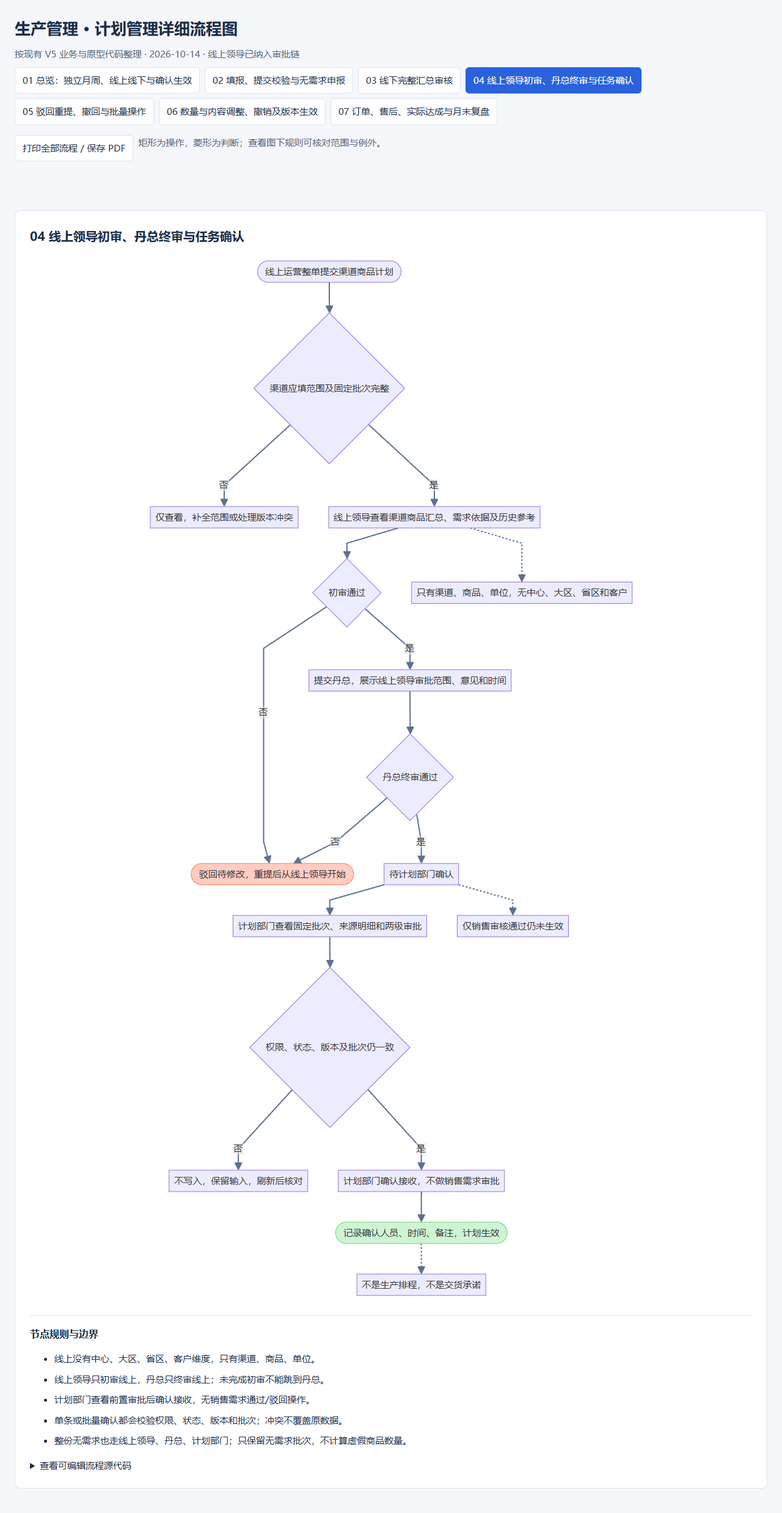
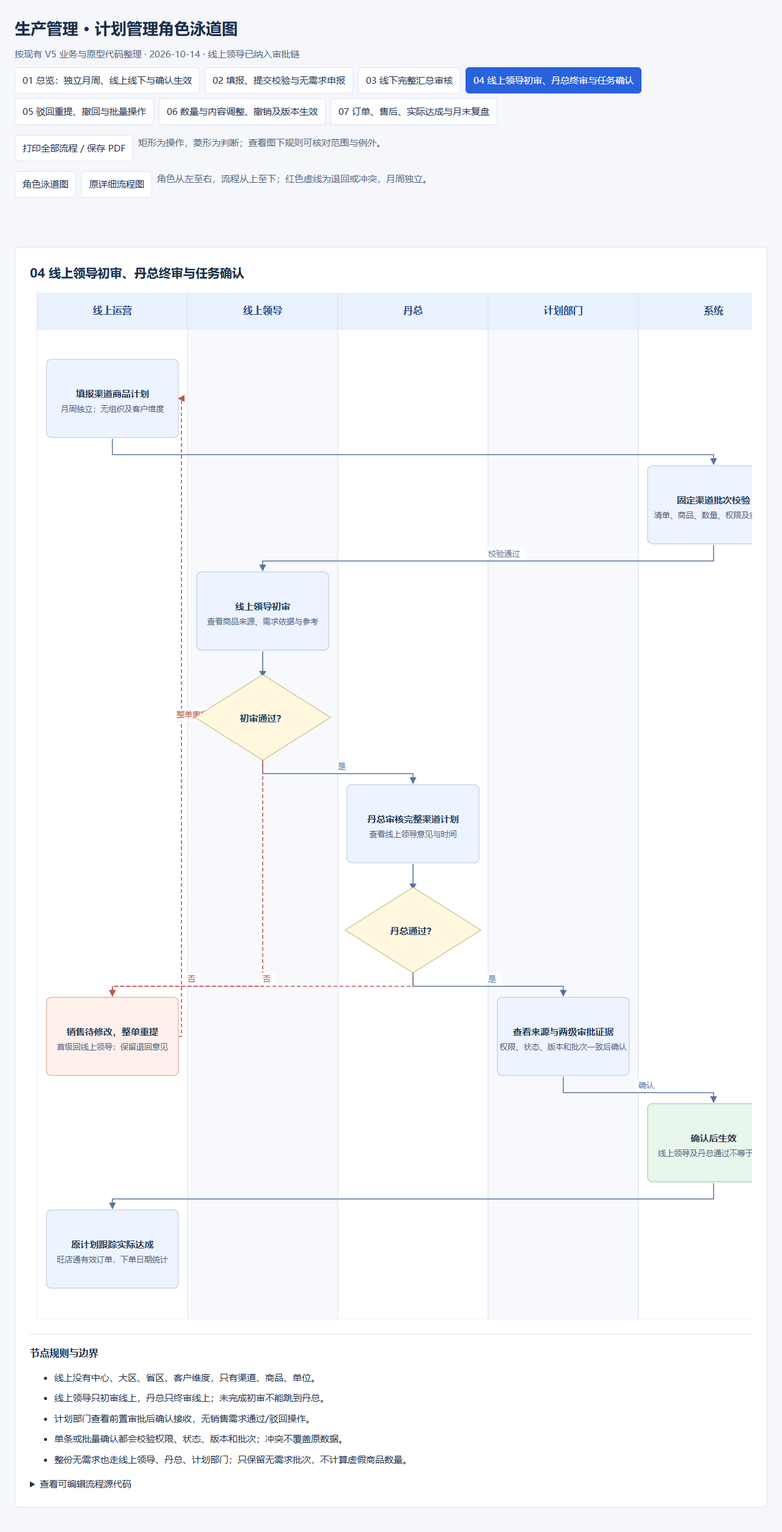
Auto sync 2026-10-14 09:13:38

diff --git a/09-设计与原型/销售计划管理/17-计划管理详细流程图.html b/09-设计与原型/销售计划管理/17-计划管理详细流程图.html
@@ -2,10 +2,11 @@
 <html lang="zh-CN"><head><meta charset="utf-8"><meta name="viewport" content="width=device-width,initial-scale=1"><title>脱骨侠 · 计划管理详细流程图</title>
 <style>
 :root{color-scheme:light;--ink:#1b2d4b;--line:#dbe4f2;--blue:#2962dc;--muted:#526582}*{box-sizing:border-box}body{margin:0;background:#f5f7fb;color:var(--ink);font:15px/1.7 "Microsoft YaHei",sans-serif}header,main{max-width:1280px;margin:auto;padding:24px}h1{margin:0;font-size:26px}header p{margin:8px 0;color:var(--muted)}nav{display:flex;flex-wrap:wrap;gap:8px}button{font:inherit;padding:8px 12px;border:1px solid var(--line);border-radius:6px;background:white;color:var(--ink);cursor:pointer}button[aria-selected=true]{background:var(--blue);color:white;border-color:var(--blue)}button:focus-visible,a:focus-visible{outline:3px solid #83abff;outline-offset:3px}.sheet{background:white;border:1px solid var(--line);border-radius:8px;padding:24px;margin:16px 0}.sheet h2{font-size:20px;margin:0 0 16px}.drawing{overflow:auto;min-height:120px}.drawing svg{display:block;margin:auto;max-width:none!important}.error{color:#a32c28}li{margin:8px 0}.rules{border-top:1px solid var(--line);margin-top:24px;padding-top:16px}.rules h3{margin:0;font-size:16px}.toolbar{display:flex;gap:8px;flex-wrap:wrap;margin:16px 0}.muted{color:var(--muted)}[hidden]{display:none!important}@media(max-width:600px){header,main{padding:16px}.sheet{padding:16px}h1{font-size:22px}}@media print{nav,.toolbar{display:none!important}header,main{max-width:none;padding:8px}body{background:white}.sheet{display:block!important;page-break-before:always;border:0}.drawing{overflow:visible}.drawing svg{max-width:100%!important;max-height:800px;width:auto!important;height:auto!important}.sheet:first-of-type{page-break-before:auto}}
+.swimlane-drawing{overflow:auto;width:100%;margin:16px 0}.swimlane-drawing svg{display:block;font-family:"Microsoft YaHei",sans-serif}@media print{@page{size:A3 landscape;margin:10mm}.swimlane-drawing{overflow:visible}.swimlane-drawing svg{width:100%;height:auto;max-height:820px}}
 </style></head><body><header><h1>生产管理 · 计划管理详细流程图</h1><p>按现有 V5 业务与原型代码整理 · 2026-10-14 · 线上领导已纳入审批链</p><nav role="tablist" aria-label="流程章节"><button id="flowTab0" role="tab" aria-controls="flowPanel0" aria-selected="true" data-chapter="0">01 总览：独立月周、线上线下与确认生效</button><button id="flowTab1" role="tab" aria-controls="flowPanel1" aria-selected="false" data-chapter="1">02 填报、提交校验与无需求申报</button><button id="flowTab2" role="tab" aria-controls="flowPanel2" aria-selected="false" data-chapter="2">03 线下完整汇总审核</button><button id="flowTab3" role="tab" aria-controls="flowPanel3" aria-selected="false" data-chapter="3">04 线上领导初审、丹总终审与任务确认</button><button id="flowTab4" role="tab" aria-controls="flowPanel4" aria-selected="false" data-chapter="4">05 驳回重提、撤回与批量操作</button><button id="flowTab5" role="tab" aria-controls="flowPanel5" aria-selected="false" data-chapter="5">06 数量与内容调整、撤销及版本生效</button><button id="flowTab6" role="tab" aria-controls="flowPanel6" aria-selected="false" data-chapter="6">07 订单、售后、实际达成与月末复盘</button></nav><div class="toolbar"><button id="printFlows">打印全部流程 / 保存 PDF</button><span class="muted">矩形为操作，菱形为判断；查看图下规则可核对范围与例外。</span></div></header><main><section class="sheet" role="tabpanel" id="flowPanel0" aria-labelledby="flowTab0" ><h2>01 总览：独立月周、线上线下与确认生效</h2><div class="drawing" id="flowDrawing0" aria-label="01 总览：独立月周、线上线下与确认生效">正在生成流程图…</div><div class="rules"><h3>节点规则与边界</h3><ul><li>月计划与周计划独立填报、审核、确认，不分解、不相加。</li><li>计划数量包含已有订单，是周期预计销售总量。</li><li>生产管理当前为第一阶段：需求计划，不直接生成生产工单。</li></ul></div><details><summary>查看可编辑流程源代码</summary><pre></pre></details></section><section class="sheet" role="tabpanel" id="flowPanel1" aria-labelledby="flowTab1" hidden><h2>02 填报、提交校验与无需求申报</h2><div class="drawing" id="flowDrawing1" aria-label="02 填报、提交校验与无需求申报">正在生成流程图…</div><div class="rules"><h3>节点规则与边界</h3><ul><li>月度完整自然月；周度周一至周日。</li><li>一个销售固定属于一个中心和大区，可负责多个省区；客户只有一位负责人。</li><li>客户明细层不能单独提交，必须提交本人整份省区计划；线上按整份渠道提交。</li><li>整份无需求必须没有商品明细；无需求原因与提交批次留痕，不造零数量商品。</li><li>清单未发布、窗口未开放、归属错误、商品停用、重复或范围不完整时保留输入并阻断提交。</li></ul></div><details><summary>查看可编辑流程源代码</summary><pre></pre></details></section><section class="sheet" role="tabpanel" id="flowPanel2" aria-labelledby="flowTab2" hidden><h2>03 线下完整汇总审核</h2><div class="drawing" id="flowDrawing2" aria-label="03 线下完整汇总审核">正在生成流程图…</div><div class="rules"><h3>节点规则与边界</h3><ul><li>三个中心：休食中心、餐饮中心、大客中心。</li><li>大区列表按省区；中心列表按大区；严总列表按中心。详情可逐级下钻客户，也可独立查看商品汇总及数量来源。</li><li>完整性按应填清单、负责人固定批次、内容/数量/版本、下级审核节点验证，不按当前搜索结果拼接审批对象。</li><li>本级已通过不表示已生效，上级完成后仍待计划部门确认。</li></ul></div><details><summary>查看可编辑流程源代码</summary><pre></pre></details></section><section class="sheet" role="tabpanel" id="flowPanel3" aria-labelledby="flowTab3" hidden><h2>04 线上领导初审、丹总终审与任务确认</h2><div class="drawing" id="flowDrawing3" aria-label="04 线上领导初审、丹总终审与任务确认">正在生成流程图…</div><div class="rules"><h3>节点规则与边界</h3><ul><li>线上没有中心、大区、省区、客户维度，只有渠道、商品、单位。</li><li>线上领导只初审线上，丹总只终审线上；未完成初审不能跳到丹总。</li><li>计划部门查看前置审批后确认接收，无销售需求通过/驳回操作。</li><li>单条或批量确认都会校验权限、状态、版本和批次；冲突不覆盖原数据。</li><li>整份无需求也走线上领导、丹总、计划部门；只保留无需求批次，不计算虚假商品数量。</li></ul></div><details><summary>查看可编辑流程源代码</summary><pre></pre></details></section><section class="sheet" role="tabpanel" id="flowPanel4" aria-labelledby="flowTab4" hidden><h2>05 驳回重提、撤回与批量操作</h2><div class="drawing" id="flowDrawing4" aria-label="05 驳回重提、撤回与批量操作">正在生成流程图…</div><div class="rules"><h3>节点规则与边界</h3><ul><li>审核页明确分为待审核、本级已通过、驳回待修改。</li><li>只要完整下级范围仍有退回明细，整份范围都在退回页，不能部分审核。</li><li>重提产生新提交批次修订号；不是沿用之前通过结果。商品明细修改快照和原审批历史保留。</li><li>撤回仅允许整份未开始审核的本人批次；草稿作废另行留档，不物理删除。</li></ul></div><details><summary>查看可编辑流程源代码</summary><pre></pre></details></section><section class="sheet" role="tabpanel" id="flowPanel5" aria-labelledby="flowTab5" hidden><h2>06 数量与内容调整、撤销及版本生效</h2><div class="drawing" id="flowDrawing5" aria-label="06 数量与内容调整、撤销及版本生效">正在生成流程图…</div><div class="rules"><h3>节点规则与边界</h3><ul><li>仅数量调整即使加急，也不新增 OA 或领导审批。加急只是优先标识，不改变路径。</li><li>减少数量必须有完整同步和有效销量口径，不能将缺同步当作执行量为零。</li><li>非数量内容变更只允许执行开始前；只能在原业务、组织和授权范围内调整。</li><li>每个计划最多一个未完结调整。处理中或驳回时原执行量和版本不变。</li><li>确认任务后才产生新生效版本；未处理调整可由原申请人说明原因撤销，已处理不可撤销。</li></ul></div><details><summary>查看可编辑流程源代码</summary><pre></pre></details></section><section class="sheet" role="tabpanel" id="flowPanel6" aria-labelledby="flowTab6" hidden><h2>07 订单、售后、实际达成与月末复盘</h2><div class="drawing" id="flowDrawing6" aria-label="07 订单、售后、实际达成与月末复盘">正在生成流程图…</div><div class="rules"><h3>节点规则与边界</h3><ul><li>实际达成为下单销量，不是发货、交货或生产完成。</li><li>取消状态不计入；跨月售后归属及退款不退货等真实规则仍需业务确认，图中沿用原型配置。</li><li>不同单位不直接相加，只有已维护商品换算系数才能转换标准量。</li><li>同一订单分别参与月、周归因，月周不能再次合并累加。</li><li>统计条件不足时不输出正式整体达成率；可标注具备条件部分的销量。</li><li>跨月周分摊为估算，只用于复盘，不修改周计划；缺实际数据不能断言预测正确。</li></ul></div><details><summary>查看可编辑流程源代码</summary><pre></pre></details></section></main><script src="流程图-mermaid.min.js"></script><script>
 const flows=[{"title":"01 总览：独立月周、线上线下与确认生效","source":"flowchart LR\nstart([\"生产管理第一阶段：计划管理\"]) --> cycle{\"独立选择计划类型\"}\ncycle -->|\"月度\"| month[\"完整自然月\"]\ncycle -->|\"周度\"| week[\"周一至周日\"]\nmonth --> prep[\"规则管理员配置窗口与发布应填清单\"]\nweek --> prep\nprep --> business{\"选择业务\"}\nbusiness -->|\"线下\"| offline[\"省区销售填报客户、商品、单位\"]\nbusiness -->|\"线上\"| online[\"线上运营填报渠道、商品、单位\"]\noffline --> offAudit[\"大区审核省区汇总 → 中心审核大区汇总 → 严总审核中心汇总\"]\nonline --> onAudit[\"线上领导初审完整渠道计划 → 丹总终审\"]\noffAudit --> task[\"销售审核完成，待计划部门确认\"]\nonAudit --> task\ntask --> verify[\"计划部门查看来源、前置意见、批次和版本\"]\nverify --> effective([\"确认后生效\"])\neffective --> track[\"原计划同排查看实际完成、达成率与订单\"]\neffective --> change[\"独立申请调整，确认前原版本不变\"]\ntrack --> recap[\"月末比较月计划、覆盖本月周计划与实际销量\"]\nrecap --> next[\"保存复盘依据，辅助下期填报\"]\nstyle effective fill:#CDF4D3,stroke:#66D575"},{"title":"02 填报、提交校验与无需求申报","source":"flowchart TD\nbegin([\"选择月度或周计划及周期\"]) --> scope[\"按账号归属限定客户或渠道范围\"]\nscope --> reference[\"查询历史销售、每日折线及来源订单\"]\nreference --> qty[\"填本周期总需求，包含已有订单，不重复叠加\"]\nqty --> hasDemand{\"负责范围是否有需求\"}\nhasDemand -->|\"有需求\"| lines[\"有需求客户填商品与正整数数量，单位分别汇总\"]\nlines --> zeroCustomer[\"无需求客户登记原因，未填客户仍算未完成\"]\nhasDemand -->|\"整份无需求\"| zeroScope[\"无商品明细时填写整份无需求原因\"]\nlines --> draft[\"保存或恢复本机草稿\"]\ndraft --> submit[\"进入本人整份省区或渠道计划，核对后提交\"]\nzeroCustomer --> submit\nzeroScope --> submit\nsubmit --> checks{\"提交检查是否通过\"}\nchecks -->|\"否\"| fix[\"保留输入，指出原因及恢复办法\"]\nfix --> draft\nchecks -->|\"是\"| batch[\"固定提交批次 R1，保存清单与数量版本快照\"]\nbatch --> next([\"进入对应首级销售审核\"])\nsubmit -.-> requirements[\"校验窗口、应填清单、负责人、商品有效期、重复维度和完整范围\"]\nbatch -.-> immutable[\"不能因筛选或新增草稿重拼已提交批次\"]\nstyle fix fill:#FFCDC2,stroke:#FF7556\nstyle batch fill:#CDF4D3,stroke:#66D575"},{"title":"03 线下完整汇总审核","source":"flowchart TD\nentry([\"各销售提交本人整份省区批次\"]) --> province[\"大区查看每个省区的商品种数和单位数量\"]\nprovince --> fullProvince{\"省区所有应填负责人已完成且批次一致\"}\nfullProvince -->|\"否\"| blocked[\"仅查看，补齐未报、草稿、退回或冲突后再审核\"]\nfullProvince -->|\"是\"| regionReview[\"大区查看客户详情与商品来源，填写审核意见\"]\nregionReview --> regionPass{\"大区审核通过\"}\nregionPass -->|\"否\"| reject([\"驳回待修改，销售按意见整单重提\"])\nregionPass -->|\"是\"| areas[\"中心查看每个大区完整汇总\"]\nareas --> fullArea{\"大区所有省区已完成下级审核\"}\nfullArea -->|\"否\"| blocked\nfullArea -->|\"是\"| centerReview[\"中心核对省区、客户及商品明细并审核\"]\ncenterReview --> centerPass{\"中心审核通过\"}\ncenterPass -->|\"否\"| reject\ncenterPass -->|\"是\"| centers[\"严总查看休食、餐饮、大客中心完整汇总\"]\ncenters --> fullCenter{\"中心所有大区已完成审核\"}\nfullCenter -->|\"否\"| blocked\nfullCenter -->|\"是\"| yanReview[\"严总逐层下钻中心、大区、省区和客户并审核\"]\nyanReview --> yanPass{\"严总审核通过\"}\nyanPass -->|\"否\"| reject\nyanPass -->|\"是\"| planner([\"待计划部门确认，尚未生效\"])\nregionReview -.-> bulk[\"单份或批量审核均必须是完整汇总并填写意见\"]\nstyle blocked fill:#FFECBD,stroke:#FFC943\nstyle reject fill:#FFCDC2,stroke:#FF7556"},{"title":"04 线上领导初审、丹总终审与任务确认","source":"flowchart TD\nentry([\"线上运营整单提交渠道商品计划\"]) --> ready{\"渠道应填范围及固定批次完整\"}\nready -->|\"否\"| blocked[\"仅查看，补全范围或处理版本冲突\"]\nready -->|\"是\"| leader[\"线上领导查看渠道商品汇总、需求依据及历史参考\"]\nleader --> first{\"初审通过\"}\nfirst -->|\"否\"| reject([\"驳回待修改，重提后从线上领导开始\"])\nfirst -->|\"是\"| dan[\"提交丹总，展示线上领导审批范围、意见和时间\"]\ndan --> second{\"丹总终审通过\"}\nsecond -->|\"否\"| reject\nsecond -->|\"是\"| wait[\"待计划部门确认\"]\nwait --> evidence[\"计划部门查看固定批次、来源明细和两级审批\"]\nevidence --> version{\"权限、状态、版本及批次仍一致\"}\nversion -->|\"否\"| recover[\"不写入，保留输入，刷新后核对\"]\nversion -->|\"是\"| confirm[\"计划部门确认接收，不做销售需求审批\"]\nconfirm --> effective([\"记录确认人员、时间、备注，计划生效\"])\nwait -.-> noEffect[\"仅销售审核通过仍未生效\"]\neffective -.-> boundary[\"不是生产排程，不是交货承诺\"]\nleader -.-> dimension[\"只有渠道、商品、单位，无中心、大区、省区和客户\"]\nstyle reject fill:#FFCDC2,stroke:#FF7556\nstyle effective fill:#CDF4D3,stroke:#66D575"},{"title":"05 驳回重提、撤回与批量操作","source":"flowchart TD\nreview([\"销售审核节点发现问题\"]) --> opinion[\"填写退回原因、问题明细及修改要求\"]\nopinion --> returned[\"整份下级汇总进入驳回待修改\"]\nreturned --> origin[\"区分本级驳回和其他节点驳回，展示节点与时间\"]\norigin --> seller[\"原填报人员查看原因并修改相应明细\"]\nseller --> snapshot[\"保留修改前后记录和旧审批，不覆盖历史\"]\nsnapshot --> full{\"整个负责范围再次填报完整\"}\nfull -->|\"否\"| wait[\"保留退回或未完成状态，不允许上级通过\"]\nfull -->|\"是\"| revision[\"重新整单提交，形成关联旧批次的 R2\"]\nrevision --> first([\"线下回大区，线上回线上领导\"])\nreturned -.-> readonly[\"退回页只查看，无单条或批量审核按钮\"]\nsubmitted([\"已提交尚未审核\"]) --> withdraw{\"整份批次是否无任何审核结果\"}\nwithdraw -->|\"是\"| backDraft[\"撤回本人整份批次，记录撤回操作\"]\nwithdraw -->|\"否\"| notWithdraw[\"不能部分撤回，改走适用的独立调整流程\"]\nbatchStart([\"勾选完整可审核汇总\"]) --> batchModal[\"核对所有范围、商品及单位数量并填写意见\"]\nbatchModal --> check{\"所有对象状态与版本仍一致\"}\ncheck -->|\"否\"| atomicStop[\"全批次不写入，刷新核对\"]\ncheck -->|\"是\"| atomic[\"原子通过或驳回，逐条保存审批证据\"]\nstyle returned fill:#FFCDC2,stroke:#FF7556\nstyle atomicStop fill:#FFECBD,stroke:#FFC943"},{"title":"06 数量与内容调整、撤销及版本生效","source":"flowchart TD\nentry([\"原填报人员申请独立调整\"]) --> guard{\"未归档、未锁定、无未完结调整且符合权限\"}\nguard -->|\"否\"| blocked[\"说明阻断原因，原数量与版本不变\"]\nguard -->|\"是\"| type{\"仅修改数量\"}\ntype -->|\"是\"| quantity[\"检查已配置的数量调整时限\"]\nquantity --> reduce{\"是否减少数量\"}\nreduce -->|\"是\"| floor[\"同步及口径完整，拟数量不得低于已执行净量\"]\nreduce -->|\"否\"| planner[\"直接交计划部门确认，不走 OA 或领导审核\"]\nfloor --> planner\ntype -->|\"否\"| before{\"计划时间是否尚未开始\"}\nbefore -->|\"否\"| blocked\nbefore -->|\"是\"| content[\"提交内容对比及原因，业务和组织归属不能改变\"]\ncontent --> business{\"线上还是线下\"}\nbusiness -->|\"线上\"| online[\"线上领导 → 丹总\"]\nbusiness -->|\"线下\"| offline[\"大区 → 中心 → 严总\"]\nonline --> pass{\"各级全部通过\"}\noffline --> pass\npass -->|\"否\"| old[\"记录驳回，继续执行原版本\"]\npass -->|\"是\"| planner\nplanner --> consistent{\"原版本、状态及调整条件仍一致\"}\nconsistent -->|\"否\"| blocked\nconsistent -->|\"是\"| effective([\"计划部门确认后生成 V2，保留 V1 与完整记录\"])\ncontent -.-> cancel{\"首节点无任何处理记录\"}\nquantity -.-> cancel\ncancel -->|\"是\"| revoke[\"原申请人说明原因并撤销，保留变更单留痕\"]\ncancel -->|\"否\"| keep[\"已处理的申请不可自行撤销\"]\nstyle blocked fill:#FFECBD,stroke:#FFC943\nstyle effective fill:#CDF4D3,stroke:#66D575"},{"title":"07 订单、售后、实际达成与月末复盘","source":"flowchart TD\noffline([\"线下 OMS 订单行\"]) --> time[\"按北京时间下单日期归属周期\"]\nonline([\"线上旺店通订单行\"]) --> time\ntime --> normalize[\"按平台、订单号和行号去重，取最新快照\"]\nnormalize --> mapping{\"时间、商品、单位及客户或渠道映射有效\"}\nmapping -->|\"否\"| exceptions[\"异常隔离，说明原因，不强行匹配\"]\nmapping -->|\"是\"| policy[\"按已确认版本筛选有效状态，排除取消\"]\npolicy --> returns[\"按售后配置不回冲或记录退货回冲\"]\nreturns --> match[\"匹配业务、周期、客户或渠道、商品和单位\"]\nmatch --> valid{\"计划生效、同步完整、口径确认且无归因冲突\"}\nvalid -->|\"否\"| pending[\"显示未生效或待同步、待确认，不算零\"]\nvalid -->|\"是\"| actual[\"累计有效销量；完整同步无订单时才认定为零\"]\nactual --> row[\"原计划行显示计划量、实际量、达成率及剩余或超额\"]\nrow --> drill[\"点击实际量查看对应原订单和售后记录\"]\nrow --> monthClose[\"月末分别选原始预测或当前生效版本\"]\nmonthClose --> compare[\"比较月计划与覆盖本月周计划，不相加\"]\ncompare --> allocation[\"跨月周按本月重叠天数占比估算\"]\nallocation --> deviation[\"与正式实际销量对比，区分高估、低估和数据缺口\"]\ndeviation --> archive[\"保存计划版本、销量口径、同步和归属复盘快照\"]\narchive --> next([\"复盘依据辅助下期填报，不声称自动预测\"])\nstyle pending fill:#FFECBD,stroke:#FFC943\nstyle exceptions fill:#FFCDC2,stroke:#FF7556"}];
 mermaid.initialize({startOnLoad:false,securityLevel:"strict",theme:"default",flowchart:{useMaxWidth:false,htmlLabels:false,curve:"linear"},themeVariables:{fontFamily:"Microsoft YaHei, sans-serif",fontSize:"15px",primaryColor:"#edf3ff",primaryBorderColor:"#8da8d3",primaryTextColor:"#1b2d4b",lineColor:"#5c7191"}});
 (async()=>{for(let i=0;i<flows.length;i++){const host=document.getElementById("flowDrawing"+i);document.querySelector("#flowPanel"+i+" pre").textContent=flows[i].source;try{const rendered=await mermaid.render("flowSvg"+i,flows[i].source);host.innerHTML=rendered.svg;host.querySelector("svg").setAttribute("aria-label",flows[i].title);}catch(error){host.classList.add("error");host.textContent="流程图暂时无法渲染，可展开查看源代码："+error.message;}}})();
 document.querySelectorAll("[data-chapter]").forEach((button,index)=>{button.onclick=()=>{document.querySelectorAll("[data-chapter]").forEach((b,i)=>{b.setAttribute("aria-selected",String(i===index));document.getElementById("flowPanel"+i).hidden=i!==index;});};button.onkeydown=event=>{if(["ArrowLeft","ArrowRight","Home","End"].includes(event.key)){event.preventDefault();const i=event.key==="Home"?0:event.key==="End"?flows.length-1:(index+(event.key==="ArrowRight"?1:-1)+flows.length)%flows.length;const target=document.getElementById("flowTab"+i);target.click();target.focus();}};});
 document.getElementById("printFlows").onclick=()=>window.print();
-</script></body></html>
+</script><script src="计划管理泳道图.js"></script></body></html>

diff --git a/09-设计与原型/销售计划管理/计划管理泳道图.js b/09-设计与原型/销售计划管理/计划管理泳道图.js
@@ -1,0 +1,24 @@
+(function(){
+const diagrams=[{"roles":["销售 / 线上运营","线下审核领导","线上审核领导","计划部门","系统"],"nodes":[["select",0,0,"独立选择月度或周计划","周期内预计销售总量，含已有订单"],["fill",0,1,"按业务填报完整范围","线下客户商品；线上渠道商品"],["gate",4,2,"提交校验通过？","窗口、清单、归属、商品、完整性","decision"],["off",1,3,"线下三级审核","大区 → 中心 → 严总"],["on",2,3,"线上两级审核","线上领导 → 丹总"],["task",3,4,"查看销售需求与前置审批","只确认任务，不审批需求"],["effective",4,5,"确认后计划生效","留存确认版本、人员与时间","success"],["follow",0,6,"查看原计划实际达成","下单销量；可下钻对应订单"],["recap",0,7,"月末复盘，辅助下期填报","月周分别比较，不相加"]],"edges":[["select","fill"],["fill","gate"],["gate","off","线下"],["gate","on","线上"],["off","task","全部通过"],["on","task","全部通过"],["task","effective","确认"],["effective","follow"],["follow","recap"]]},{"roles":["规则 / 商品管理员","销售 / 线上运营","系统"],"nodes":[["config",0,0,"配置窗口、发布应填清单","商品启用状态及有效期维护"],["cycle",1,1,"选择独立周期和授权范围","月：完整自然月；周：周一到周日"],["history",1,2,"查询历史销量及每日趋势","弹窗或独立页，按角色范围查看"],["demand",1,3,"本期有需求？","预计总销量包含已有订单","decision"],["items",1,4,"填报商品、单位和数量","客户无需求单独说明，不能漏报"],["zero",1,5,"整份无需求：由填报人申报","无商品明细，填写本期无需求原因","note"],["check",2,6,"整份提交检查通过？","窗口、清单、客户归属、数量及重复","decision"],["fix",1,7,"校验失败：保留输入并修正","明确问题和恢复办法","return"],["seal",2,8,"生成固定提交批次 R1","保存清单、归属、版本和数量快照"],["next",1,9,"交给对应首级领导","线下大区；线上线上领导"]],"edges":[["config","cycle"],["cycle","history"],["history","demand"],["demand","items","有需求"],["demand","zero","整份无需求"],["items","check"],["zero","check","填写原因"],["check","fix","否","return"],["fix","items","修正","return"],["check","seal","是"],["seal","next"]]},{"roles":["规则管理员","省区销售","大区审核","中心审核","严总","计划部门","系统"],"nodes":[["prepare",0,0,"配置窗口与应填清单","固定负责人及组织归属"],["fill",1,1,"填客户商品，整份省区提交","本人负责客户完整批次"],["submit",6,2,"固定批次与范围校验","缺报、草稿、退回或冲突时阻断"],["region",2,3,"查看各省区完整汇总","下钻客户与商品；未齐只查看"],["regionDecision",2,4,"大区审核通过？","","decision"],["center",3,5,"查看各大区完整汇总","所有下级省区完成才可审核"],["centerDecision",3,6,"中心审核通过？","","decision"],["yan",4,7,"查看各中心完整汇总","三个中心；所有大区完成才可审核"],["yanDecision",4,8,"严总审核通过？","","decision"],["return",1,9,"按退回意见修改后整单重提","R2 保留旧批次，重新从大区审核","return"],["confirm",5,9,"核对来源及三级前置审批","确认任务；不修改销售批准量"],["effective",6,10,"确认后生效","仅审核通过仍未生效","success"]],"edges":[["prepare","fill"],["fill","submit"],["submit","region","校验通过"],["region","regionDecision"],["regionDecision","center","是"],["center","centerDecision"],["centerDecision","yan","是"],["yan","yanDecision"],["yanDecision","confirm","是"],["confirm","effective","确认"],["regionDecision","return","驳回","return"],["centerDecision","return","驳回","return"],["yanDecision","return","驳回","return"],["return","fill","整单重提","return"]]},{"roles":["线上运营","线上领导","丹总","计划部门","系统"],"nodes":[["fill",0,0,"填报渠道商品计划","月周独立；无组织及客户维度"],["validate",4,1,"固定渠道批次校验","清单、商品、数量、权限及完整性"],["leader",1,2,"线上领导初审","查看商品来源、需求依据与参考"],["leaderPass",1,3,"初审通过？","","decision"],["dan",2,4,"丹总审核完整渠道计划","查看线上领导意见与时间"],["danPass",2,5,"丹总通过？","","decision"],["return",0,6,"销售待修改，整单重提","首级回线上领导；保留退回意见","return"],["confirm",3,6,"查看来源与两级审批证据","权限、状态、版本和批次一致后确认"],["effective",4,7,"确认后生效","线上领导及丹总通过不等于生效","success"],["view",0,8,"原计划跟踪实际达成","旺店通有效订单，下单日期统计"]],"edges":[["fill","validate"],["validate","leader","校验通过"],["leader","leaderPass"],["leaderPass","dan","是"],["dan","danPass"],["danPass","confirm","是"],["leaderPass","return","否","return"],["danPass","return","否","return"],["confirm","effective","确认"],["effective","view"],["return","fill","整单重提","return"]]},{"roles":["填报人员","销售审核人员","系统"],"nodes":[["review",1,0,"审查完整下级汇总","不得单独审核某客户或商品"],["pass",1,1,"审核通过？","","decision"],["reject",1,2,"填写退回原因及修改要求","明确问题范围，保存人员与时间","return"],["split",2,3,"单独展示驳回待修改","区分本级及其他节点；无审核按钮","return"],["modify",0,4,"按意见修改对应明细","保留修改前后快照，不覆盖旧意见"],["complete",2,5,"整份范围重新完整？","","decision"],["wait",0,6,"尚未补齐，继续修改","上级只查看，不审核不完整汇总","return"],["batch",2,7,"整单重提生成 R2","关联原批次，旧审批不沿用"],["first",1,8,"重新走首级审核","线下大区；线上线上领导"],["go",2,2,"通过并交给下一级","保存本级审核数量及意见","success"],["batchPick",1,10,"批量勾选完整可审汇总","不能按搜索结果拆开固定批次"],["batchOpinion",1,11,"核对范围并填写共同意见","含商品及各单位数量"],["batchCheck",2,12,"全部版本与状态一致？","","decision"],["batchStop",1,13,"冲突：刷新后重新核对","全批次不写入","return"],["batchCommit",2,13,"整批通过或整批驳回","逐条留存范围、数量与意见","success"],["withdraw",0,15,"申请撤回本人整份批次","不能撤回单个客户或商品"],["noAudit",2,16,"无任何已处理审核记录？","","decision"],["draft",0,17,"撤回留痕，恢复整份草稿","","success"],["stopWithdraw",2,17,"已有审核，不能撤回","改用适用的独立调整流程","return"]],"edges":[["review","pass"],["pass","reject","否","return"],["pass","go","是"],["reject","split"],["split","modify"],["modify","complete"],["complete","wait","否","return"],["complete","batch","是"],["batch","first"],["wait","modify","继续修改","return"],["first","review","从首级重走"],["batchPick","batchOpinion"],["batchOpinion","batchCheck"],["batchCheck","batchCommit","是"],["batchCheck","batchStop","否","return"],["withdraw","noAudit"],["noAudit","draft","是"],["noAudit","stopWithdraw","否","return"]]},{"roles":["原填报人员","系统校验","线下审核链","线上审核链","计划部门"],"nodes":[["apply",0,0,"发起独立调整并说明原因","未归档、未锁定、无未完结调整"],["type",1,1,"仅数量变化？","改变其他内容属于内容调整","decision"],["quantity",1,2,"校验数量调整规则","减少需完整销量口径并核验下限"],["before",1,3,"其他内容：执行前校验","原业务、组织及授权范围不得越界"],["proposal",0,4,"提交内容对比和调整依据","处理中原数量及版本不变"],["offline",2,5,"线下：大区 → 中心 → 严总","各级按对应原规则审查"],["online",3,5,"线上：线上领导 → 丹总","不能跳过线上初审"],["allPass",1,6,"内容审批全部通过？","","decision"],["reject",0,7,"调整被驳回，原版本不变","保留本次意见和变更单","return"],["confirm",4,8,"确认数量或内容调整任务","核对基准版本、状态与最新条件"],["valid",1,9,"基准及校验仍一致？","","decision"],["conflict",0,10,"冲突或条件不符，重新核对","不覆盖新数据，不生效","return"],["version",1,11,"确认后生效 V2，保留 V1","留存原始与调整数量及确认记录","success"]],"edges":[["apply","type"],["type","quantity","是"],["quantity","confirm","校验通过：不走 OA"],["type","before","否"],["before","proposal","条件符合"],["proposal","offline","线下"],["proposal","online","线上"],["offline","allPass"],["online","allPass"],["allPass","reject","否","return"],["allPass","confirm","是"],["confirm","valid"],["valid","conflict","否","return"],["valid","version","是"]]},{"roles":["OMS / 旺店通来源","系统统计","填报与审核人员","计划部门 / 复盘人员"],"nodes":[["orders",0,0,"订单行及售后记录","线下 OMS；线上旺店通"],["clean",1,1,"下单日期、去重与映射","北京时间；平台＋订单＋行号"],["policy",1,2,"有效状态及售后口径","取消排除；按配置决定是否回冲"],["valid",1,3,"生效、同步及口径完整？","须无匹配冲突、无未处理异常","decision"],["missing",2,4,"待同步或待确认","数据缺失不等于销量为零","return"],["measure",1,5,"按原计划计算实际与达成","月周、业务、单位分别计算"],["view",2,6,"原计划同排查看达成","点击销量查看原订单及售后"],["compare",3,7,"月末比较月计划及本月周计划","跨月周按重叠天数分摊估算"],["save",3,8,"保存复盘快照及改进依据","版本、同步、统计口径和归属"],["next",2,9,"参考历史及复盘填下期计划","不声称自动预测，不能保证准确"]],"edges":[["orders","clean"],["clean","policy"],["policy","valid"],["valid","missing","否","return"],["valid","measure","是"],["measure","view"],["view","compare"],["compare","save"],["save","next"]]}];
+const ns="http://www.w3.org/2000/svg",laneWidth=246,rowHeight=174,header=86;
+function el(name,attrs,text){const n=document.createElementNS(ns,name);for(const [k,v]of Object.entries(attrs||{}))n.setAttribute(k,v);if(text!==undefined)n.textContent=text;return n;}
+function wrap(text,max){const chars=[...String(text||"")],out=[];while(chars.length)out.push(chars.splice(0,max).join(""));return out;}
+function draw(d,i){const width=d.roles.length*laneWidth+24,height=(Math.max(...d.nodes.map(n=>n[2]))+1)*rowHeight+header+28,svg=el("svg",{width,height,viewBox:"0 0 "+width+" "+height,role:"img","aria-label":document.getElementById("flowTab"+i).textContent+"角色泳道图"});svg.append(el("title",{},svg.getAttribute("aria-label")));const defs=el("defs");for(const [id,color]of [["forward","#58739b"],["returned","#bf574e"]]){const m=el("marker",{id:"arrow"+i+id,viewBox:"0 0 10 10",refX:9,refY:5,markerWidth:7,markerHeight:7,orient:"auto-start-reverse"});m.append(el("path",{d:"M0 0L10 5L0 10Z",fill:color}));defs.append(m);}svg.append(defs);
+d.roles.forEach((role,j)=>{svg.append(el("rect",{x:12+j*laneWidth,y:0,width:laneWidth,height,fill:j%2?"#f7f9fd":"#ffffff",stroke:"#dbe4f2"}));svg.append(el("rect",{x:12+j*laneWidth,y:0,width:laneWidth,height:60,fill:"#eaf1ff",stroke:"#dbe4f2"}));const t=el("text",{x:12+j*laneWidth+laneWidth/2,y:35,"text-anchor":"middle",fill:"#254c89","font-size":16,"font-weight":600});for(const [k,line]of wrap(role,13).entries())t.append(el("tspan",{x:12+j*laneWidth+laneWidth/2,dy:k?19:0},line));svg.append(t);});
+const map=new Map(d.nodes.map(n=>[n[0],{data:n,x:12+n[1]*laneWidth+laneWidth/2,y:header+n[2]*rowHeight+rowHeight/2}]));
+d.edges.forEach(([from,to,label,type])=>{const a=map.get(from),b=map.get(to);if(!a||!b)throw Error("泳道连接缺少节点");const red=type==="return",color=red?"#bf574e":"#58739b";let points,labelX,labelY;const bottom=a.y+66,top=b.y-66;
+if(a.x===b.x&&b.data[2]===a.data[2]+1){points=[[a.x,bottom],[b.x,top]];labelX=a.x+8;labelY=(bottom+top)/2;}
+else if(a.x===b.x){const side=a.x+laneWidth/2-10;points=[[a.x+108,a.y],[side,a.y],[side,b.y],[b.x+108,b.y]];labelX=side-8;labelY=(a.y+b.y)/2;}
+else if(b.y>a.y){const gap=top-16;points=[[a.x,bottom],[a.x,gap],[b.x,gap],[b.x,top]];labelX=(a.x+b.x)/2;labelY=gap-7;}
+else{const side=b.x-laneWidth/2+10;points=[[a.x-108,a.y],[side,a.y],[side,b.y],[b.x-108,b.y]];labelX=(a.x+side)/2;labelY=a.y-8;}
+svg.append(el("polyline",{points:points.map(p=>p.join(",")).join(" "),fill:"none",stroke:color,"stroke-width":1.6,"stroke-dasharray":red?"6 4":"none","marker-end":"url(#arrow"+i+(red?"returned":"forward")+")"}));if(label){const w=[...label].length*13+12;svg.append(el("rect",{x:labelX-4,y:labelY-15,width:w,height:21,rx:3,fill:"#ffffff"}));svg.append(el("text",{x:labelX,y:labelY,fill:color,"font-size":13},label));}});
+for(const node of map.values()){const [id,lane,row,title,body,kind]=node.data,g=el("g",{"data-flow-node":id,"data-role":d.roles[lane]}),fill=kind==="return"?"#fff0eb":kind==="success"?"#e8f6eb":kind==="decision"?"#fff7de":"#edf3ff",stroke=kind==="return"?"#d59a8d":kind==="success"?"#90c29a":kind==="decision"?"#c6b171":"#b2c4df";
+if(kind==="decision")g.append(el("polygon",{points:[[node.x,node.y-70],[node.x+111,node.y],[node.x,node.y+70],[node.x-111,node.y]].map(p=>p.join(",")).join(" "),fill,stroke}));else g.append(el("rect",{x:node.x-108,y:node.y-64,width:216,height:128,rx:8,fill,stroke}));g.append(el("title",{},d.roles[lane]+"："+title+"；"+body));const lines=wrap(title,kind==="decision"?10:14),bodyLines=wrap(body,kind==="decision"?10:16),allHeight=lines.length*21+bodyLines.length*18,start=node.y-allHeight/2+17;lines.forEach((line,k)=>g.append(el("text",{x:node.x,y:start+k*21,"text-anchor":"middle",fill:"#213854","font-size":15,"font-weight":600},line)));bodyLines.forEach((line,k)=>g.append(el("text",{x:node.x,y:start+lines.length*21+k*18+3,"text-anchor":"middle",fill:"#4e617c","font-size":13},line)));svg.append(g);}
+const host=document.createElement("div");host.className="swimlane-drawing";host.append(svg);document.getElementById("flowDrawing"+i).before(host);
+}
+diagrams.forEach(draw);
+const headerEl=document.querySelector("header");const switcher=document.createElement("div");switcher.className="toolbar";switcher.innerHTML='<button id="showSwimlane" aria-pressed="true">角色泳道图</button><button id="showOrdinary" aria-pressed="false">原详细流程图</button><span class="muted">角色从左至右，流程从上至下；红色虚线为退回或冲突，月周独立。</span>';headerEl.append(switcher);
+function mode(swim){document.querySelectorAll(".swimlane-drawing").forEach(e=>e.hidden=!swim);document.querySelectorAll(".drawing").forEach(e=>e.hidden=swim);document.getElementById("showSwimlane").setAttribute("aria-pressed",String(swim));document.getElementById("showOrdinary").setAttribute("aria-pressed",String(!swim));}
+document.getElementById("showSwimlane").onclick=()=>mode(true);document.getElementById("showOrdinary").onclick=()=>mode(false);mode(true);
+document.querySelector("h1").textContent="生产管理 · 计划管理角色泳道图";
+})();
